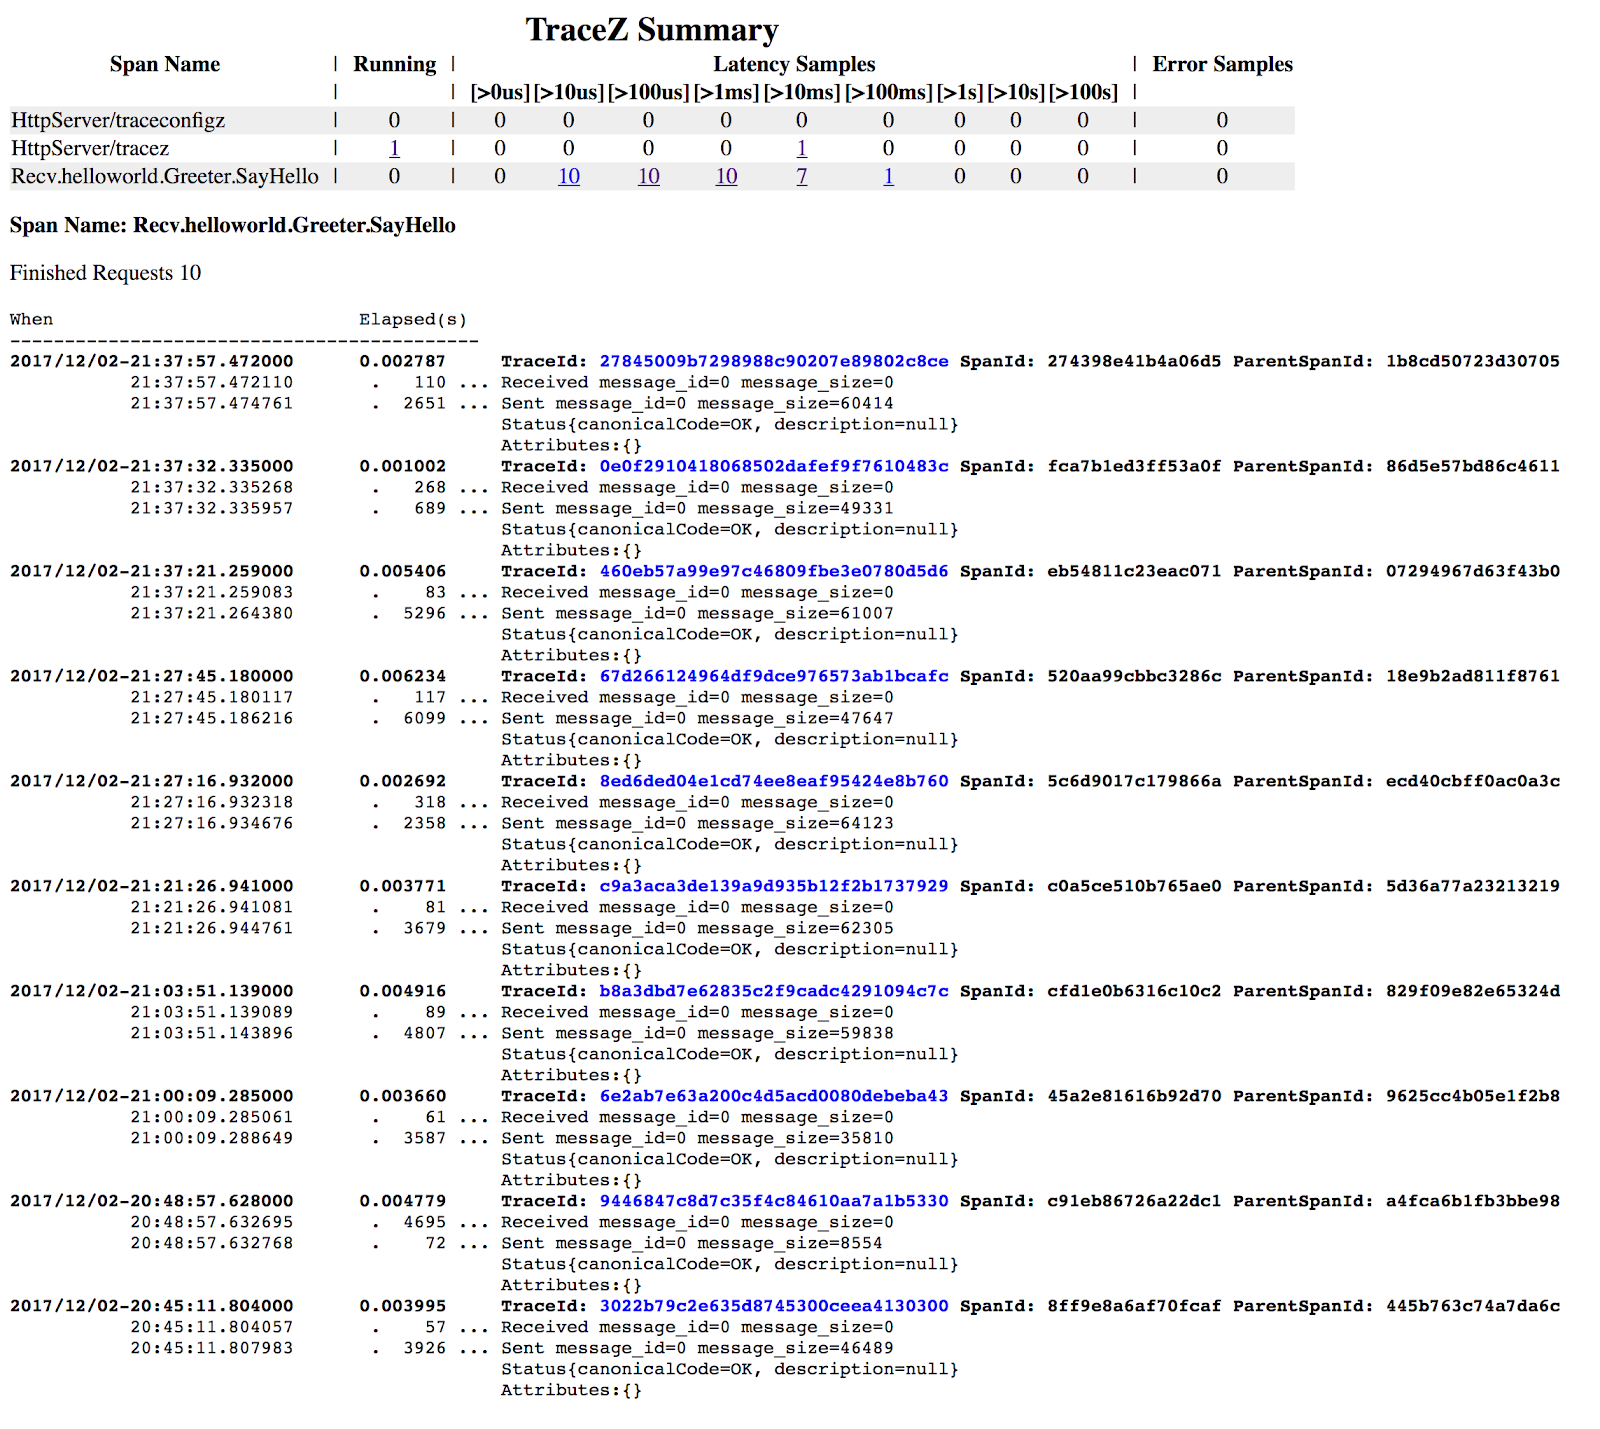
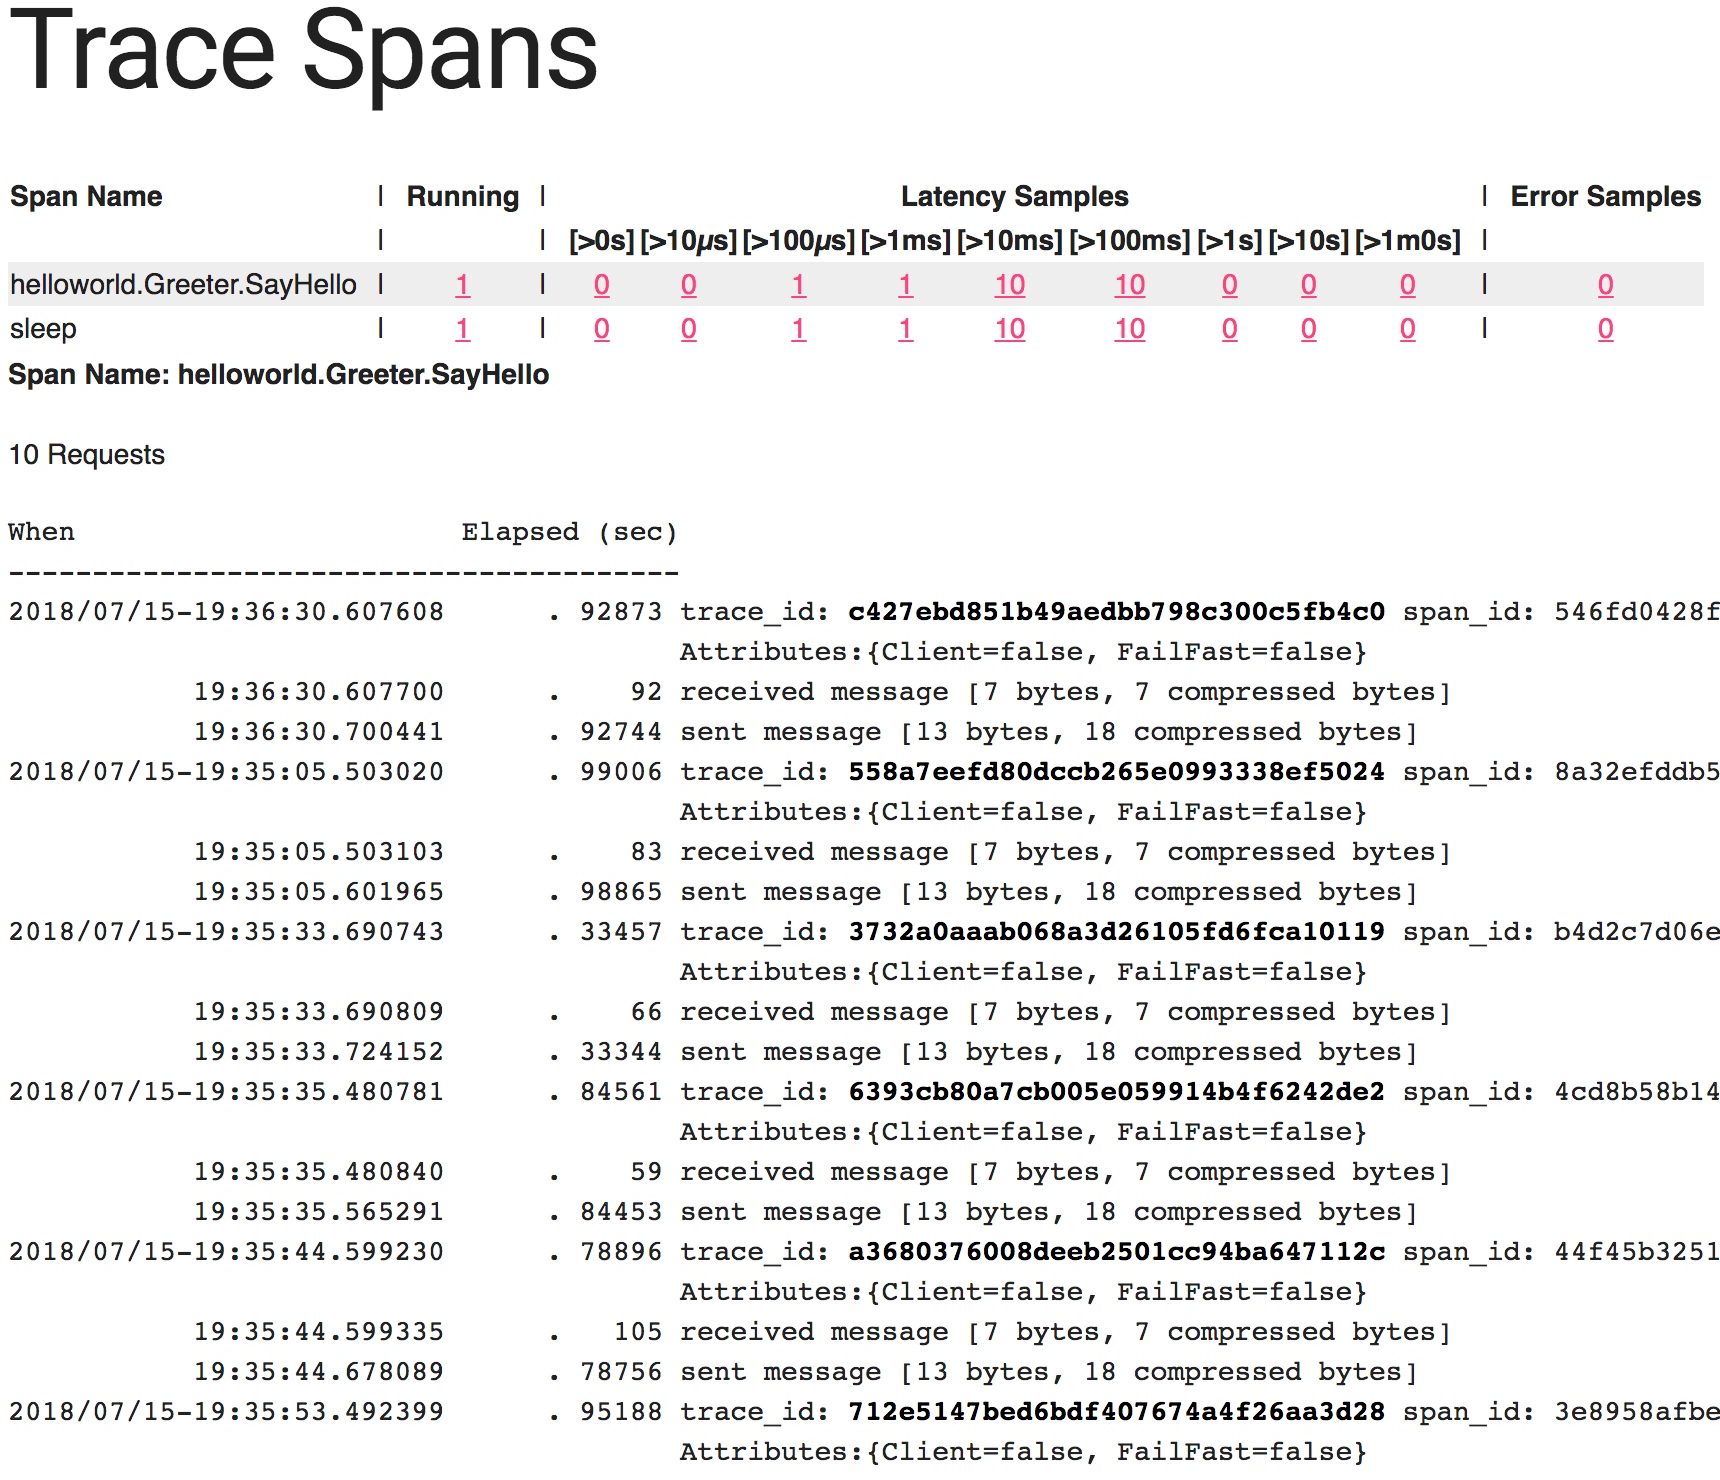
Add Z-Pages article (#176)

diff --git a/themes/census/layouts/_default/single.html b/themes/census/layouts/_default/single.html
@@ -40,6 +40,7 @@
                         <li><p><a href="/stats">Stats</a></p></li>
                         <li><p><a href="/trace">Tracing</a></p></li>
                         <li><p><a href="/exporters">Exporters</a></p></li>
+                        <li><p><a href="/zpages">Z-Pages</a></p></li>
                     </ul>
                     <hr>
                     <h4>Quickstart</h4>

diff --git a/content/zpages.md b/content/zpages.md
@@ -1,0 +1,69 @@
++++
+title = "Z-Pages"
+type = "leftnav"
++++
+
+OpenCensus provides in-process web pages that displays
+collected data from the process. These pages are called z-pages
+and they are useful to see collected data from a specific process
+without having to depend on any metric collection or
+distributed tracing backend.
+
+Z-Pages can be useful during the development time or when
+the process to be inspected is known in production.
+Z-Pages can also be used to debug [exporter](/exporters) issues.
+
+In order to serve Z-pages, register their handlers and
+start a web server. Below, there is an example how to
+serve these pages from `127.0.0.1:7777/debug`.
+
+
+{{% snippets %}}
+{{% go %}}
+```
+import "go.opencensus.io/zpages"
+
+zpages.Handle(nil, "/debug")
+log.Fatal(http.ListenAndServe("127.0.0.1:7777", nil))
+```
+{{% /go %}}
+{{% java %}}
+```
+// Add the dependencies by following the instructions at
+// https://github.com/census-instrumentation/opencensus-java/tree/master/contrib/zpages
+
+ZPageHandlers.startHttpServerAndRegisterAll(7777);
+```
+{{% /java %}}
+{{% /snippets %}}
+
+Once handler is registered, there are various pages provided
+from the libraries:
+
+* [127.0.0.1:7777/debug/rpcz](http://127.0.0.1:7777/debug/rpcz)
+* [127.0.0.1:7777/debug/tracez](http://127.0.0.1:7777/debug/tracez)
+
+## /rpcz
+
+Rpcz are available at [/rpcz](http://127.0.0.1:7777/debug/rpcz). This page serves
+stats about sent and recieved RPCs.
+
+Available stats:
+
+* Number of RPCs made per minute, hour and in total.
+* Average latency in the last minute, hour and since the process started.
+* RPCs per second in the last minute, hour and since the process started.
+* Input payload in KB/s in the last minute, hour and since the process started.
+* Output payload in KB/s in the last minute, hour and since the process started.
+* Number of RPC errors in the last minute, hour and in total.
+
+## /tracez
+
+Tracez are available at [/tracez](http://127.0.0.1:7777/debug/tracez). This page
+serves details about the trace spans collected
+in the process. It provides several sample spans
+per latency bucket and sample errored spans.
+
+An example screenshot from this page is below:
+
+![/tracez](/img/traceZ.png)

diff --git a/content/overview.md b/content/overview.md
@@ -52,11 +52,8 @@ __Trace__
 
 __Exporters__  
 
-OpenCensus is vendor-agnostic and can upload data to any backend with various exporter implementations. Even though, OpenCensus provides support for many backends, users can also implement their own exporters for proprietary and unofficially supported backends.  
+OpenCensus is vendor-agnostic and can upload data to any backend with various exporter implementations. Even though, OpenCensus provides support for many backends, users can also implement their own exporters for proprietary and unofficially supported backends. [Read more](/exporters).
 
-__Introspection__  
+__Z-Pages__  
 
-OpenCensus provides in-process dashboards that displays diagnostics data from the process. These pages are called z-pages and they are useful to understand to see collected data from a specific process without having to depend on any metric collection or distributed tracing backend.  
-
-![traceZ summary example image](/img/traceZ.png "traceZ summary example image")  
-An example /tracez handler served by the application that reports traces collected in the process.  
+OpenCensus provides in-process dashboards that displays diagnostics data from the process. These pages are called z-pages and they are useful to understand to see collected data from a specific process without having to depend on any metric collection or distributed tracing backend. [Read more](/zpages).
